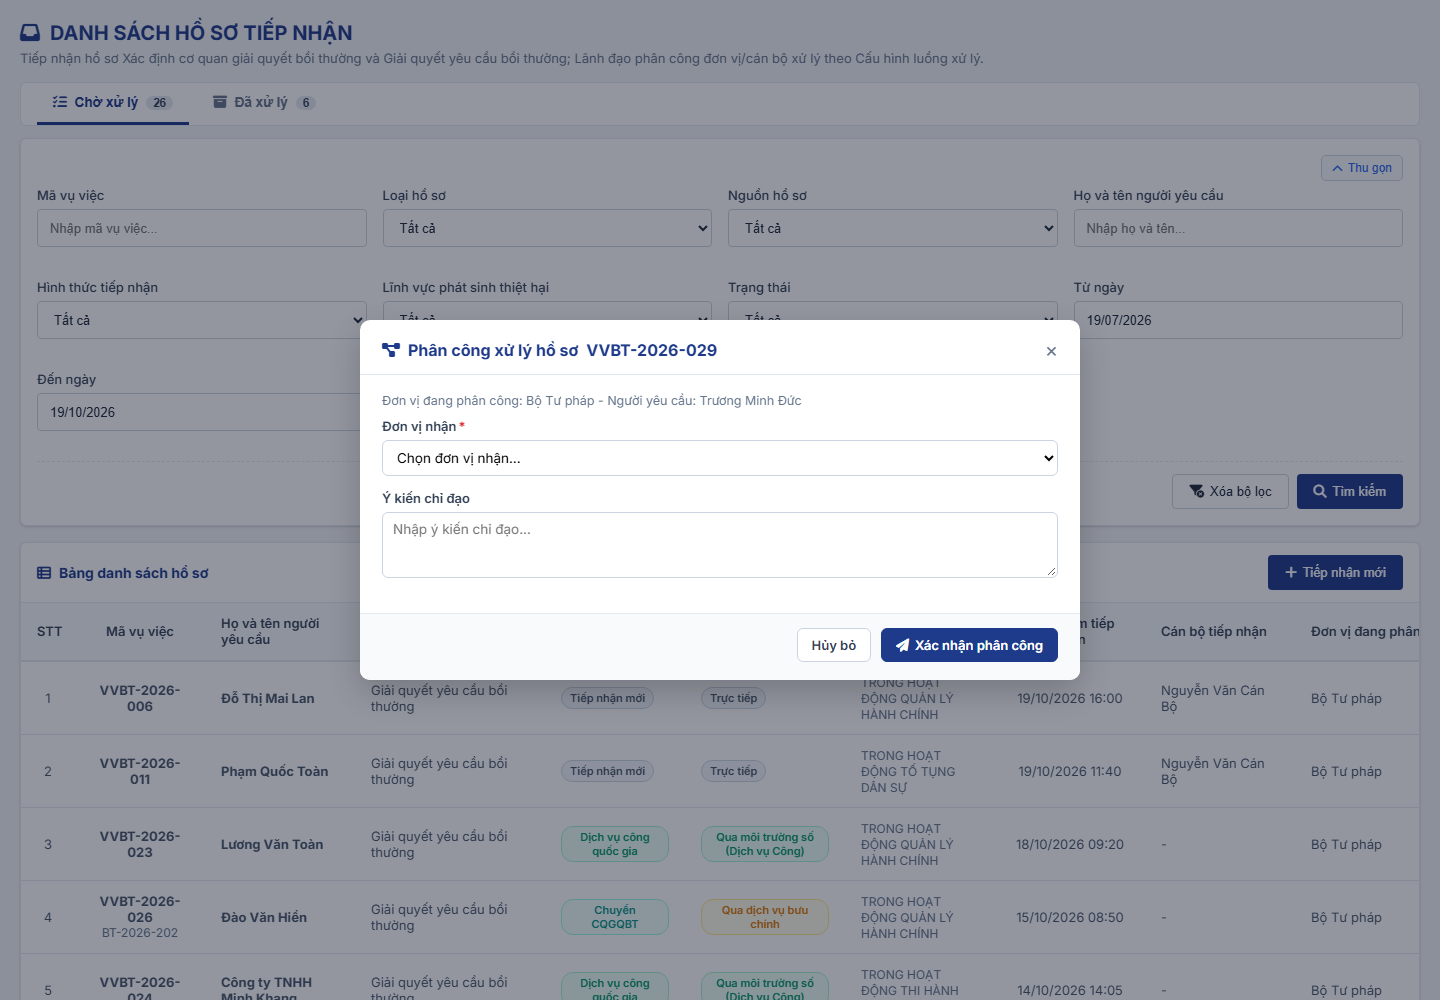
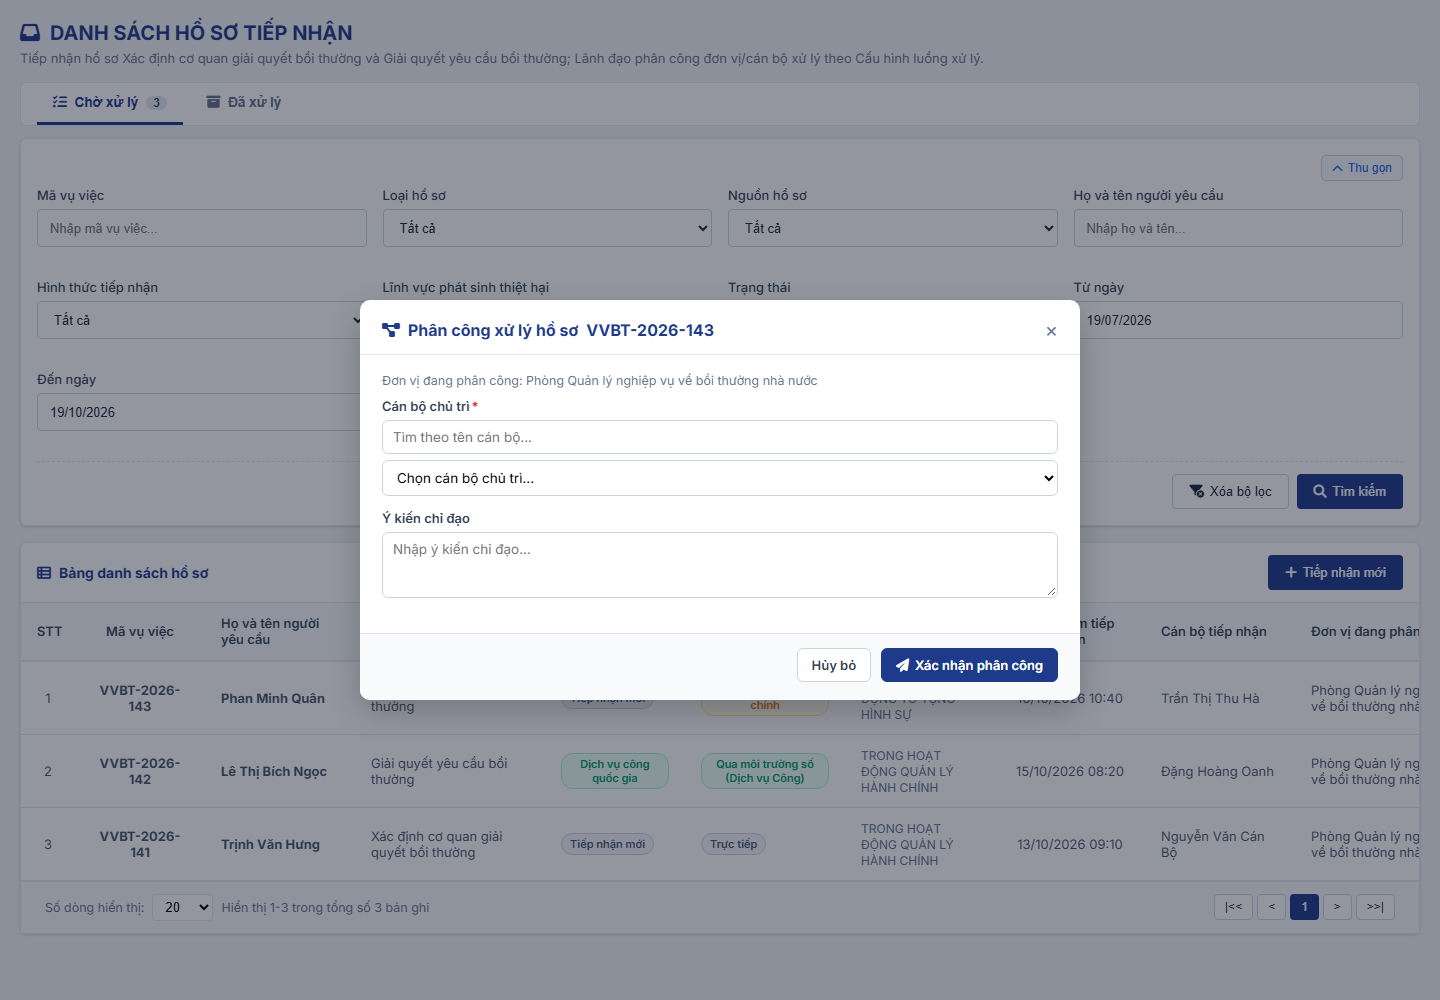
Tiếp nhận yêu cầu
- Popup Phân công xử lý hồ sơ: Đơn vị nhận tìm kiếm gần đúng theo Mã hoặc Tên đơn vị; bỏ mô tả chức năng Tìm cán bộ chủ trì
- Cập nhật ảnh MH05 - Popup Phân công xử lý hồ sơ

diff --git a/UI_Mockup/Website_Quan_tri/03_Boi_thuong_nha_nuoc/btnn_lanh_dao_actions.js b/UI_Mockup/Website_Quan_tri/03_Boi_thuong_nha_nuoc/btnn_lanh_dao_actions.js
@@ -13,6 +13,7 @@
     let acting = null;
     let decisionMode = 'approve';
     let doneCb = null;
+    let assignUnits = []; // đơn vị nhận theo cấu hình của đơn vị đang phân công
     let assignOfficers = []; // cán bộ được phân công theo cấu hình của đơn vị đang phân công
 
     const CSS = `
@@ -44,7 +45,7 @@
         <div class="ld-modal-body">
             <div class="ld-muted" id="ldAContext" style="margin-bottom:10px;"></div>
             <div class="ld-muted" id="ldANoConfig" style="display:none;">Đơn vị chưa được cấu hình luồng xử lý.</div>
-            <div class="ld-group" id="ldAUnitBlock"><span class="ld-label">Đơn vị nhận<span class="ld-req">*</span></span><select id="ldAUnit" class="ld-input"></select><div class="ld-err" id="ldAUnitErr">Đây là trường bắt buộc</div></div>
+            <div class="ld-group" id="ldAUnitBlock"><span class="ld-label">Đơn vị nhận<span class="ld-req">*</span></span><input type="text" id="ldAUnitSearch" class="ld-input" placeholder="Tìm theo mã hoặc tên đơn vị..." style="margin-bottom:6px;"><select id="ldAUnit" class="ld-input"></select><div class="ld-err" id="ldAUnitErr">Đây là trường bắt buộc</div></div>
             <div class="ld-group" id="ldAOfficerBlock"><span class="ld-label">Cán bộ chủ trì<span class="ld-req">*</span></span><input type="text" id="ldAChuTriSearch" class="ld-input" placeholder="Tìm theo tên cán bộ..." style="margin-bottom:6px;"><select id="ldAChuTri" class="ld-input"></select><div class="ld-err" id="ldAChuTriErr">Đây là trường bắt buộc</div></div>
             <div class="ld-group"><span class="ld-label">Ý kiến chỉ đạo</span><textarea id="ldANote" class="ld-input" rows="3" placeholder="Nhập ý kiến chỉ đạo..."></textarea></div>
         </div>
@@ -71,6 +72,7 @@
         const wrap = document.createElement('div'); wrap.innerHTML = HTML; document.body.appendChild(wrap);
         wrap.addEventListener('click', e => { const id = e.target.getAttribute && e.target.getAttribute('data-close'); if (id) close(id); });
         document.getElementById('ldAChuTriSearch').addEventListener('input', renderChuTriOptions);
+        document.getElementById('ldAUnitSearch').addEventListener('input', renderUnitOptions);
         document.getElementById('ldASubmit').addEventListener('click', submitAssign);
         document.getElementById('ldDSubmit').addEventListener('click', submitDecision);
     }
@@ -125,7 +127,10 @@
         document.getElementById('ldANoConfig').style.display = canUnit || canOfficer ? 'none' : 'block';
         assignOfficers = canOfficer ? node.officers : [];
         document.getElementById('ldAChuTriSearch').value = '';
-        document.getElementById('ldAUnit').innerHTML = `<option value="">Chọn đơn vị nhận...</option>` + (canUnit ? node.units : []).map(u => `<option value="${esc(u)}">${esc(WF.unitName(u))}</option>`).join('');
+        assignUnits = canUnit ? node.units : [];
+        document.getElementById('ldAUnitSearch').value = '';
+        document.getElementById('ldAUnit').value = '';
+        renderUnitOptions();
         document.getElementById('ldAChuTri').value = '';
         renderChuTriOptions();
         document.getElementById('ldANote').value = '';
@@ -133,6 +138,15 @@
         open('ldAssignOverlay');
     }
     // Cán bộ chủ trì: lọc theo tên cán bộ, giữ lựa chọn đang có nếu vẫn khớp
+    // Đơn vị nhận: lọc gần đúng, không phân biệt hoa thường theo mã hoặc tên đơn vị
+    function renderUnitOptions() {
+        const sel = document.getElementById('ldAUnit');
+        const cur = sel.value;
+        const q = document.getElementById('ldAUnitSearch').value.trim().toLowerCase();
+        const list = assignUnits.filter(u => !q || u.toLowerCase().includes(q) || WF.unitName(u).toLowerCase().includes(q));
+        sel.innerHTML = `<option value="">${list.length ? 'Chọn đơn vị nhận...' : 'Không tìm thấy đơn vị phù hợp'}</option>` + list.map(u => `<option value="${esc(u)}">${esc(WF.unitName(u))}</option>`).join('');
+        if (list.includes(cur)) sel.value = cur;
+    }
     function renderChuTriOptions() {
         const sel = document.getElementById('ldAChuTri');
         const cur = sel.value;

diff --git a/Tai_lieu_SRS/03_Website_Quan_tri/03_Cong_tac_boi_thuong/SRS_BTNN_GiaiQuyetBT_TiepNhan_YCBT.md b/Tai_lieu_SRS/03_Website_Quan_tri/03_Cong_tac_boi_thuong/SRS_BTNN_GiaiQuyetBT_TiepNhan_YCBT.md
@@ -330,7 +330,7 @@ g. Quy tắc 02 tab Chờ xử lý / Đã xử lý
 | Tiêu đề popup | String(255) | - | - | Control UI: Heading text (Read-only).<br>- Hiển thị "Phân công xử lý hồ sơ [Mã vụ việc]". |
 | Thông tin ngữ cảnh | String(500) | - | Theo dữ liệu | Control UI: Text (Read-only).<br>- Hiển thị "Đơn vị đang phân công: [Tên đơn vị]". |
 | Thông báo chưa cấu hình | String(255) | - | Ẩn | Control UI: Text (Read-only).<br>- Chỉ hiển thị khi đơn vị đang phân công chưa được cấu hình luồng xử lý.<br>- Nội dung: "Đơn vị chưa được cấu hình luồng xử lý." |
-| Đơn vị nhận | Enum(String(255)) | Có (khi hiển thị) | Trống | Control UI: Combobox.<br>- Placeholder: "Chọn đơn vị nhận...".<br>- Chỉ hiển thị khi luồng xử lý của đơn vị đang phân công được cấu hình Hình thức phân công là `Chuyển đơn vị`.<br>- Danh sách: các đơn vị cấp dưới trực tiếp đã chọn tại cấu hình của đơn vị đang phân công. |
+| Đơn vị nhận | Enum(String(255)) | Có (khi hiển thị) | Trống | Control UI: Combobox có tìm kiếm.<br>- Placeholder: "Chọn đơn vị nhận...".<br>- Tìm kiếm gần đúng, không phân biệt hoa thường theo Mã đơn vị hoặc Tên đơn vị.<br>- Không có đơn vị phù hợp: hiển thị "Không tìm thấy đơn vị phù hợp".<br>- Chỉ hiển thị khi luồng xử lý của đơn vị đang phân công được cấu hình Hình thức phân công là `Chuyển đơn vị`.<br>- Danh sách: các đơn vị cấp dưới trực tiếp đã chọn tại cấu hình của đơn vị đang phân công. |
 | Cán bộ chủ trì | Enum(String(255)) | Có (khi hiển thị) | Trống | Control UI: Combobox có tìm kiếm, chọn 01 cán bộ.<br>- Placeholder ô tìm kiếm: "Tìm theo tên cán bộ...".<br>- Tìm kiếm gần đúng, không phân biệt hoa thường theo Họ tên cán bộ.<br>- Không có cán bộ phù hợp: hiển thị "Không tìm thấy cán bộ phù hợp".<br>- Chỉ hiển thị khi luồng xử lý của đơn vị đang phân công được cấu hình Hình thức phân công là `Phân công cán bộ`.<br>- Danh sách: cán bộ đã chọn tại cấu hình của đơn vị đang phân công.<br>- Hiển thị dạng "[Họ tên] - [Chức vụ]". |
 | Ý kiến chỉ đạo | Text(2000) | Không | Trống | Control UI: Textarea.<br>- Placeholder: "Nhập ý kiến chỉ đạo...". |
 
@@ -338,8 +338,7 @@ g. Quy tắc 02 tab Chờ xử lý / Đã xử lý
 
 | STT | Tên chức năng | Định dạng | Mô tả |
 | :--- | :--- | :--- | :--- |
-| 1 | Tìm cán bộ chủ trì | Input text | - Lọc danh sách Cán bộ chủ trì theo tên đã nhập.<br>- Giữ cán bộ đang chọn nếu vẫn khớp từ khóa. |
-| 2 | Xác nhận phân công | Button | Khi người dùng click nút, hệ thống xử lý theo các trường hợp:<br>- **TH1 - Bỏ trống trường bắt buộc** (Đơn vị nhận hoặc Cán bộ chủ trì):<br>+ Hiển thị "Đây là trường bắt buộc" dưới trường.<br>+ Không lưu.<br>- **TH2 - Hồ sơ không còn hợp lệ** (đã được thành viên khác xử lý, đã bị thu hồi hoặc người dùng không còn thuộc Nhóm lãnh đạo):<br>+ Hiển thị "Hồ sơ đã được xử lý bởi người khác hoặc bạn không có quyền phân công. Vui lòng tải lại danh sách."<br>- **TH3 - Đơn vị nhận không còn thuộc cấu hình của đơn vị đang phân công**:<br>+ Hiển thị "Đơn vị nhận không thuộc cấu hình luồng của đơn vị hiện tại."<br>- **TH4 - Hình thức phân công của đơn vị đang phân công đã thay đổi** (không còn là `Phân công cán bộ`):<br>+ Hiển thị "Đơn vị hiện tại không được cấu hình phân công cán bộ."<br>- **TH5 - Hợp lệ, đã chọn Đơn vị nhận (Chuyển đơn vị)**:<br>+ Lượt chuyển gần nhất (nếu có) chuyển "Đã xử lý"; tạo lượt chuyển mới "Chưa xử lý".<br>+ Đơn vị đang phân công = Đơn vị nhận; hồ sơ chuyển `Đang phân công`.<br>+ Ghi Lịch sử xử lý "Chuyển đơn vị": "Chuyển [Đơn vị nhận] phân công. Ý kiến chỉ đạo: [Nội dung]".<br>- **TH6 - Hợp lệ, đã chọn Cán bộ chủ trì (Phân công cán bộ)**:<br>+ Lượt chuyển gần nhất (nếu có) chuyển "Đã xử lý"; tạo lượt chuyển mới "Chưa xử lý".<br>+ Lưu Cán bộ chủ trì.<br>+ Hồ sơ chuyển `Chờ tiếp nhận` tại phân hệ tương ứng với Loại hồ sơ (Xác định cơ quan giải quyết bồi thường hoặc Giải quyết yêu cầu bồi thường).<br>+ Ghi Lịch sử xử lý "Phân công cán bộ": "Chủ trì: [Họ tên]. Ý kiến chỉ đạo: [Nội dung]".<br>- Sau TH5, TH6:<br>+ Hồ sơ nguồn khác `Tiếp nhận mới` chưa có Cán bộ tiếp nhận: ghi người phân công làm Cán bộ tiếp nhận.<br>+ Đóng popup, tải lại danh sách; hồ sơ chuyển sang tab `Đã xử lý` của người phân công.<br>+ Hiển thị "Đã phân công hồ sơ [Mã vụ việc]. Trạng thái: [Trạng thái]." |
-| 3 | Hủy bỏ / Đóng (x) | Button / Icon | - Đóng popup, không lưu. |
+| 1 | Xác nhận phân công | Button | Khi người dùng click nút, hệ thống xử lý theo các trường hợp:<br>- **TH1 - Bỏ trống trường bắt buộc** (Đơn vị nhận hoặc Cán bộ chủ trì):<br>+ Hiển thị "Đây là trường bắt buộc" dưới trường.<br>+ Không lưu.<br>- **TH2 - Hồ sơ không còn hợp lệ** (đã được thành viên khác xử lý, đã bị thu hồi hoặc người dùng không còn thuộc Nhóm lãnh đạo):<br>+ Hiển thị "Hồ sơ đã được xử lý bởi người khác hoặc bạn không có quyền phân công. Vui lòng tải lại danh sách."<br>- **TH3 - Đơn vị nhận không còn thuộc cấu hình của đơn vị đang phân công**:<br>+ Hiển thị "Đơn vị nhận không thuộc cấu hình luồng của đơn vị hiện tại."<br>- **TH4 - Hình thức phân công của đơn vị đang phân công đã thay đổi** (không còn là `Phân công cán bộ`):<br>+ Hiển thị "Đơn vị hiện tại không được cấu hình phân công cán bộ."<br>- **TH5 - Hợp lệ, đã chọn Đơn vị nhận (Chuyển đơn vị)**:<br>+ Lượt chuyển gần nhất (nếu có) chuyển "Đã xử lý"; tạo lượt chuyển mới "Chưa xử lý".<br>+ Đơn vị đang phân công = Đơn vị nhận; hồ sơ chuyển `Đang phân công`.<br>+ Ghi Lịch sử xử lý "Chuyển đơn vị": "Chuyển [Đơn vị nhận] phân công. Ý kiến chỉ đạo: [Nội dung]".<br>- **TH6 - Hợp lệ, đã chọn Cán bộ chủ trì (Phân công cán bộ)**:<br>+ Lượt chuyển gần nhất (nếu có) chuyển "Đã xử lý"; tạo lượt chuyển mới "Chưa xử lý".<br>+ Lưu Cán bộ chủ trì.<br>+ Hồ sơ chuyển `Chờ tiếp nhận` tại phân hệ tương ứng với Loại hồ sơ (Xác định cơ quan giải quyết bồi thường hoặc Giải quyết yêu cầu bồi thường).<br>+ Ghi Lịch sử xử lý "Phân công cán bộ": "Chủ trì: [Họ tên]. Ý kiến chỉ đạo: [Nội dung]".<br>- Sau TH5, TH6:<br>+ Hồ sơ nguồn khác `Tiếp nhận mới` chưa có Cán bộ tiếp nhận: ghi người phân công làm Cán bộ tiếp nhận.<br>+ Đóng popup, tải lại danh sách; hồ sơ chuyển sang tab `Đã xử lý` của người phân công.<br>+ Hiển thị "Đã phân công hồ sơ [Mã vụ việc]. Trạng thái: [Trạng thái]." |
+| 2 | Hủy bỏ / Đóng (x) | Button / Icon | - Đóng popup, không lưu. |
 
 ---
